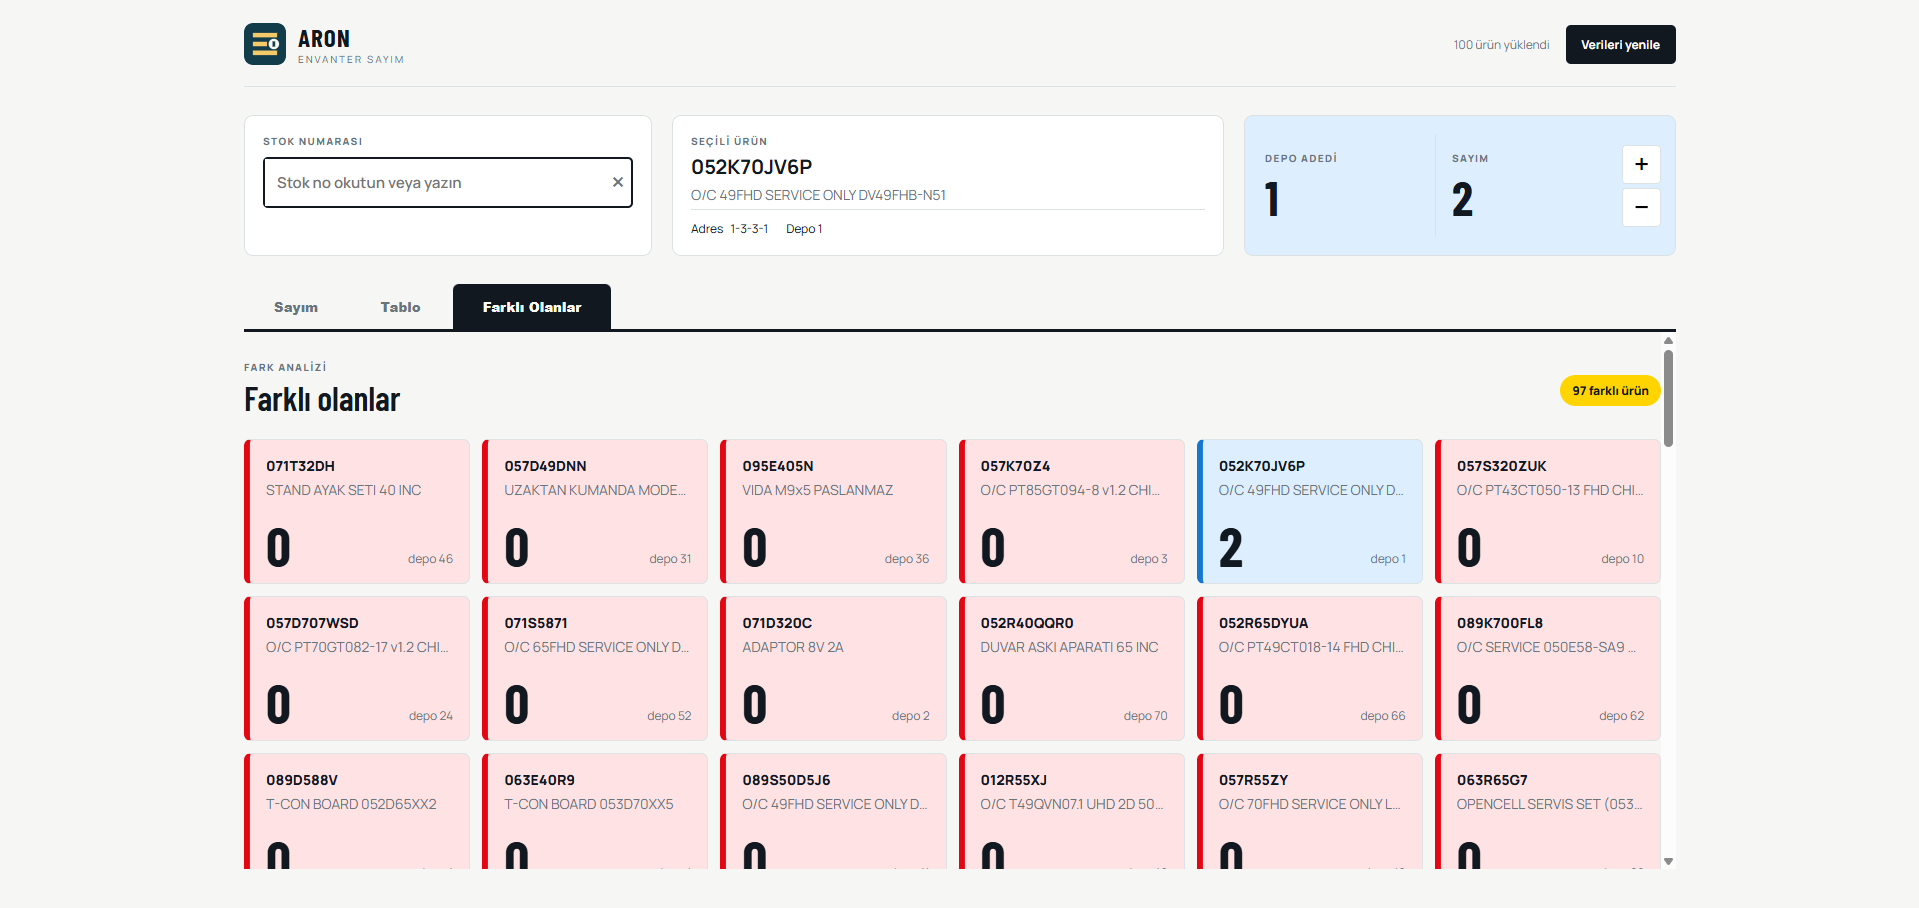
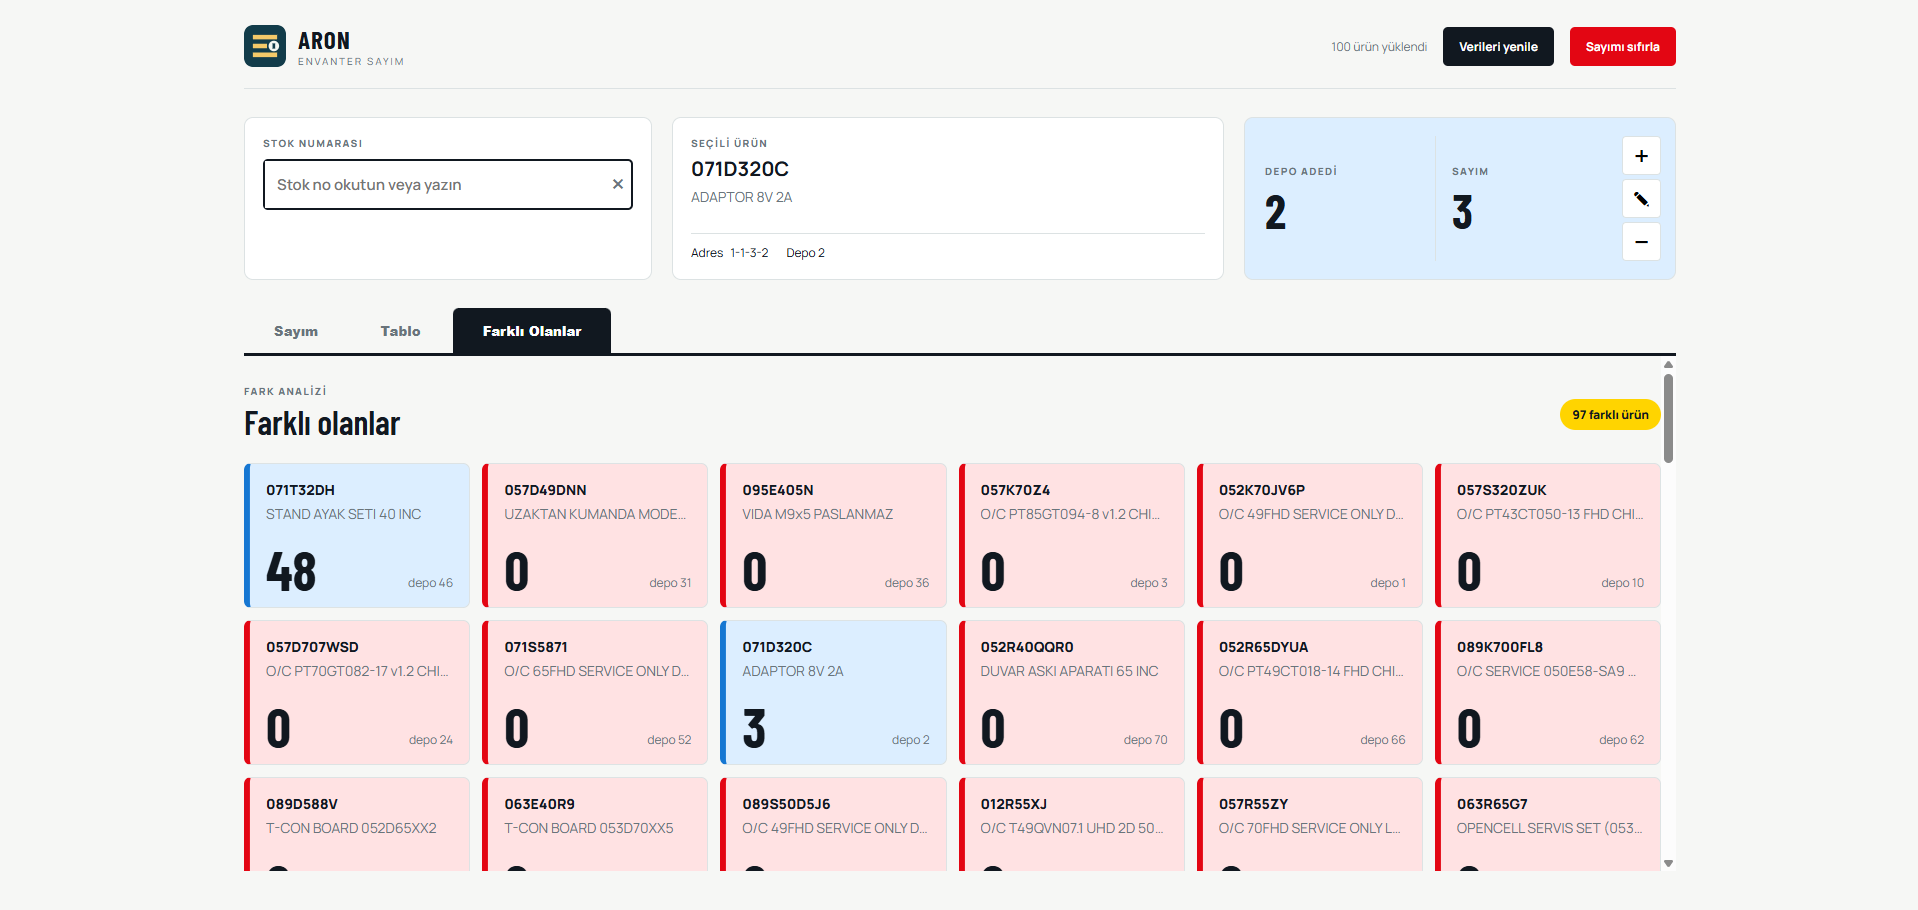
feat: add manual count edit button

diff --git a/ARON Envanter Sayim/app.js b/ARON Envanter Sayim/app.js
@@ -172,6 +172,29 @@ function changeCount(amount) {
   state.selected.difference = differenceFor(state.selected);
   updateSelected(state.selected);
 }
+function openManualCountModal() {
+  if (!state.selected) return;
+  const input = $("#manualCountInput");
+  input.value = state.selected.count;
+  $("#manualCountModal").classList.remove("hidden");
+  requestAnimationFrame(() => {
+    input.focus();
+    input.select();
+  });
+}
+function closeManualCountModal() {
+  $("#manualCountModal").classList.add("hidden");
+}
+function submitManualCount() {
+  if (!state.selected) return;
+  const value = Number($("#manualCountInput").value);
+  if (!Number.isInteger(value) || value < 0) return;
+
+  state.selected.count = value;
+  state.selected.difference = differenceFor(state.selected);
+  closeManualCountModal();
+  updateSelected(state.selected);
+}
 function showAlert(message) {
   $("#alertMessage").textContent = message;
   $("#alertModal").classList.remove("hidden");
@@ -274,11 +297,19 @@ function bindEvents() {
     $("#stockInput").focus();
   });
   $("#incrementButton").addEventListener("click", () => changeCount(1));
+  $("#editCountButton").addEventListener("click", openManualCountModal);
   $("#decrementButton").addEventListener("click", () => changeCount(-1));
   $("#refreshButton").addEventListener("click", () => loadData(true));
   $("#resetButton").addEventListener("click", resetCounts);
+  $("#manualCountForm").addEventListener("submit", (event) => {
+    event.preventDefault();
+    submitManualCount();
+  });
   $("#closeModal").addEventListener("click", () =>
     $("#alertModal").classList.add("hidden"),
+  );
+  $("#closeModal2").addEventListener("click", () =>
+    $("#manualCountModal").classList.add("hidden"),
   );
   ["searchInput", "filterSelect", "hideZero"].forEach((id) =>
     $("#" + id).addEventListener("input", renderTable),

diff --git a/ARON Envanter Sayim/index.html b/ARON Envanter Sayim/index.html
@@ -51,6 +51,8 @@
                 </div>
                 <div class="counter-actions">
                     <button id="incrementButton" title="Sayımı artır">+</button>
+                    <button id="editCountButton" title="Sayımı manuel düzenle"
+                        aria-label="Sayımı manuel düzenle">&#9998;</button>
                     <button id="decrementButton" title="Sayımı azalt">−</button>
                 </div>
             </div>
@@ -155,6 +157,19 @@
             <p id="alertMessage">Girdiğiniz stok numarası listede bulunmuyor.</p>
             <button id="closeModal" class="button button-dark">Tamam</button>
         </div>
+    </div>
+    <div id="manualCountModal" class="modal hidden">
+        <form id="manualCountForm" class="modal-card manual-count-card">
+            <h2>Sayımı düzenle</h2>
+
+            <label for="manualCountInput">Yeni sayım miktarı</label>
+
+            <input id="manualCountInput" type="number" min="0" step="1" required />
+
+            <button id="closeModal2" type="button" class="button button-dark">
+                İptal
+            </button>
+        </form>
     </div>
     <script src="app.js"></script>
 </body>

diff --git a/ARON Envanter Sayim/styles.css b/ARON Envanter Sayim/styles.css
@@ -221,6 +221,9 @@ body {
 .counter-actions button:hover {
   background: var(--yellow);
 }
+.counter-actions button:nth-child(2) {
+  font-size: 20px;
+}
 .tabs {
   display: flex;
   border-bottom: 3px solid var(--ink);
@@ -514,6 +517,29 @@ tbody tr.over {
 .modal-card button {
   margin-top: 10px;
   width: 100%;
+}
+.manual-count-card {
+  width: min(300px, calc(100vw - 40px));
+  padding: 22px;
+  text-align: left;
+}
+.manual-count-card h2 {
+  margin-top: 0;
+}
+.manual-count-card label {
+  display: block;
+  color: var(--muted);
+  font-size: 12px;
+  font-weight: 700;
+  margin-bottom: 8px;
+}
+.manual-count-card input {
+  width: 100%;
+  border: 2px solid var(--ink);
+  border-radius: 5px;
+  padding: 11px 12px;
+  outline: 0;
+  font: 700 20px Manrope;
 }
 @media (max-width: 800px) {
   .workspace {
